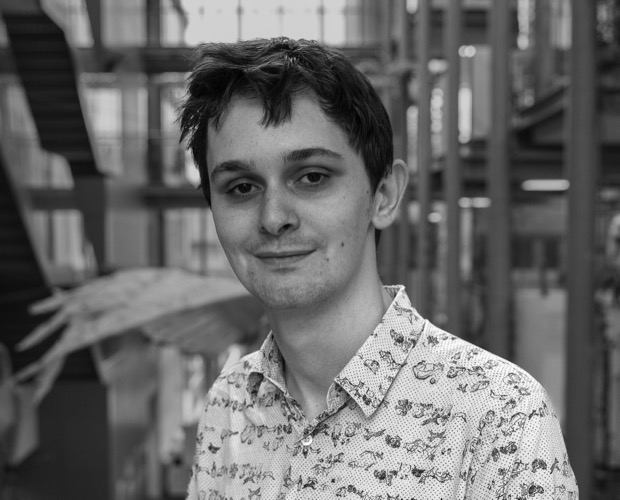
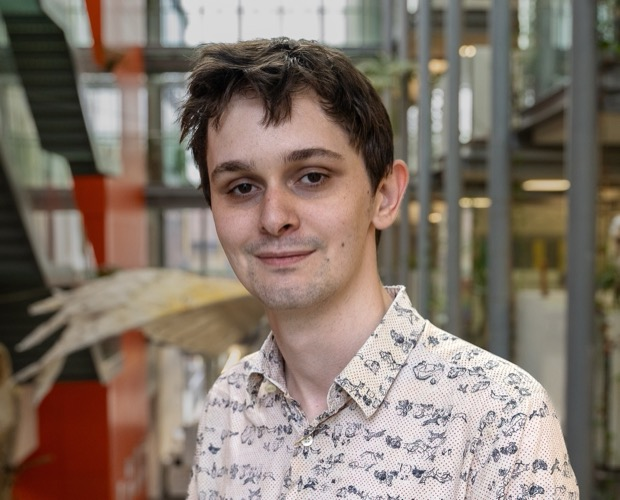
Switch the headshot back to color
Desaturated portrait photography carries a different connotation than
monochrome text/UI — a greyscale face reads as formal/memorial in a
way the site's black-on-paper typography doesn't. Re-derived from the
same original source (DSC01563 cropped.jpg), same -Z resize method
(aspect-ratio preserved, 620x500, confirmed), just skipping the
grayscale conversion step this time. Checked it in the actual page
context via a real screenshot before committing — reads warmer and
more approachable, and the soft background bokeh doesn't clash with
the rest of the monochrome palette.

diff --git a/docs/index.html b/docs/index.html
@@ -573,7 +573,7 @@ ul.task-list li input[type="checkbox"] {
       &nbsp;
     </div>
     <div class="nav-footer-right">
-<p>Last updated October 2026</p>
+<p>Last updated November 2026</p>
 </div>
   </div>
 </footer>

diff --git a/docs/public_goods.html b/docs/public_goods.html
@@ -581,7 +581,7 @@ ul.task-list li input[type="checkbox"] {
       &nbsp;
     </div>
     <div class="nav-footer-right">
-<p>Last updated October 2026</p>
+<p>Last updated November 2026</p>
 </div>
   </div>
 </footer>

diff --git a/docs/research.html b/docs/research.html
@@ -572,7 +572,7 @@ ul.task-list li input[type="checkbox"] {
       &nbsp;
     </div>
     <div class="nav-footer-right">
-<p>Last updated October 2026</p>
+<p>Last updated November 2026</p>
 </div>
   </div>
 </footer>
